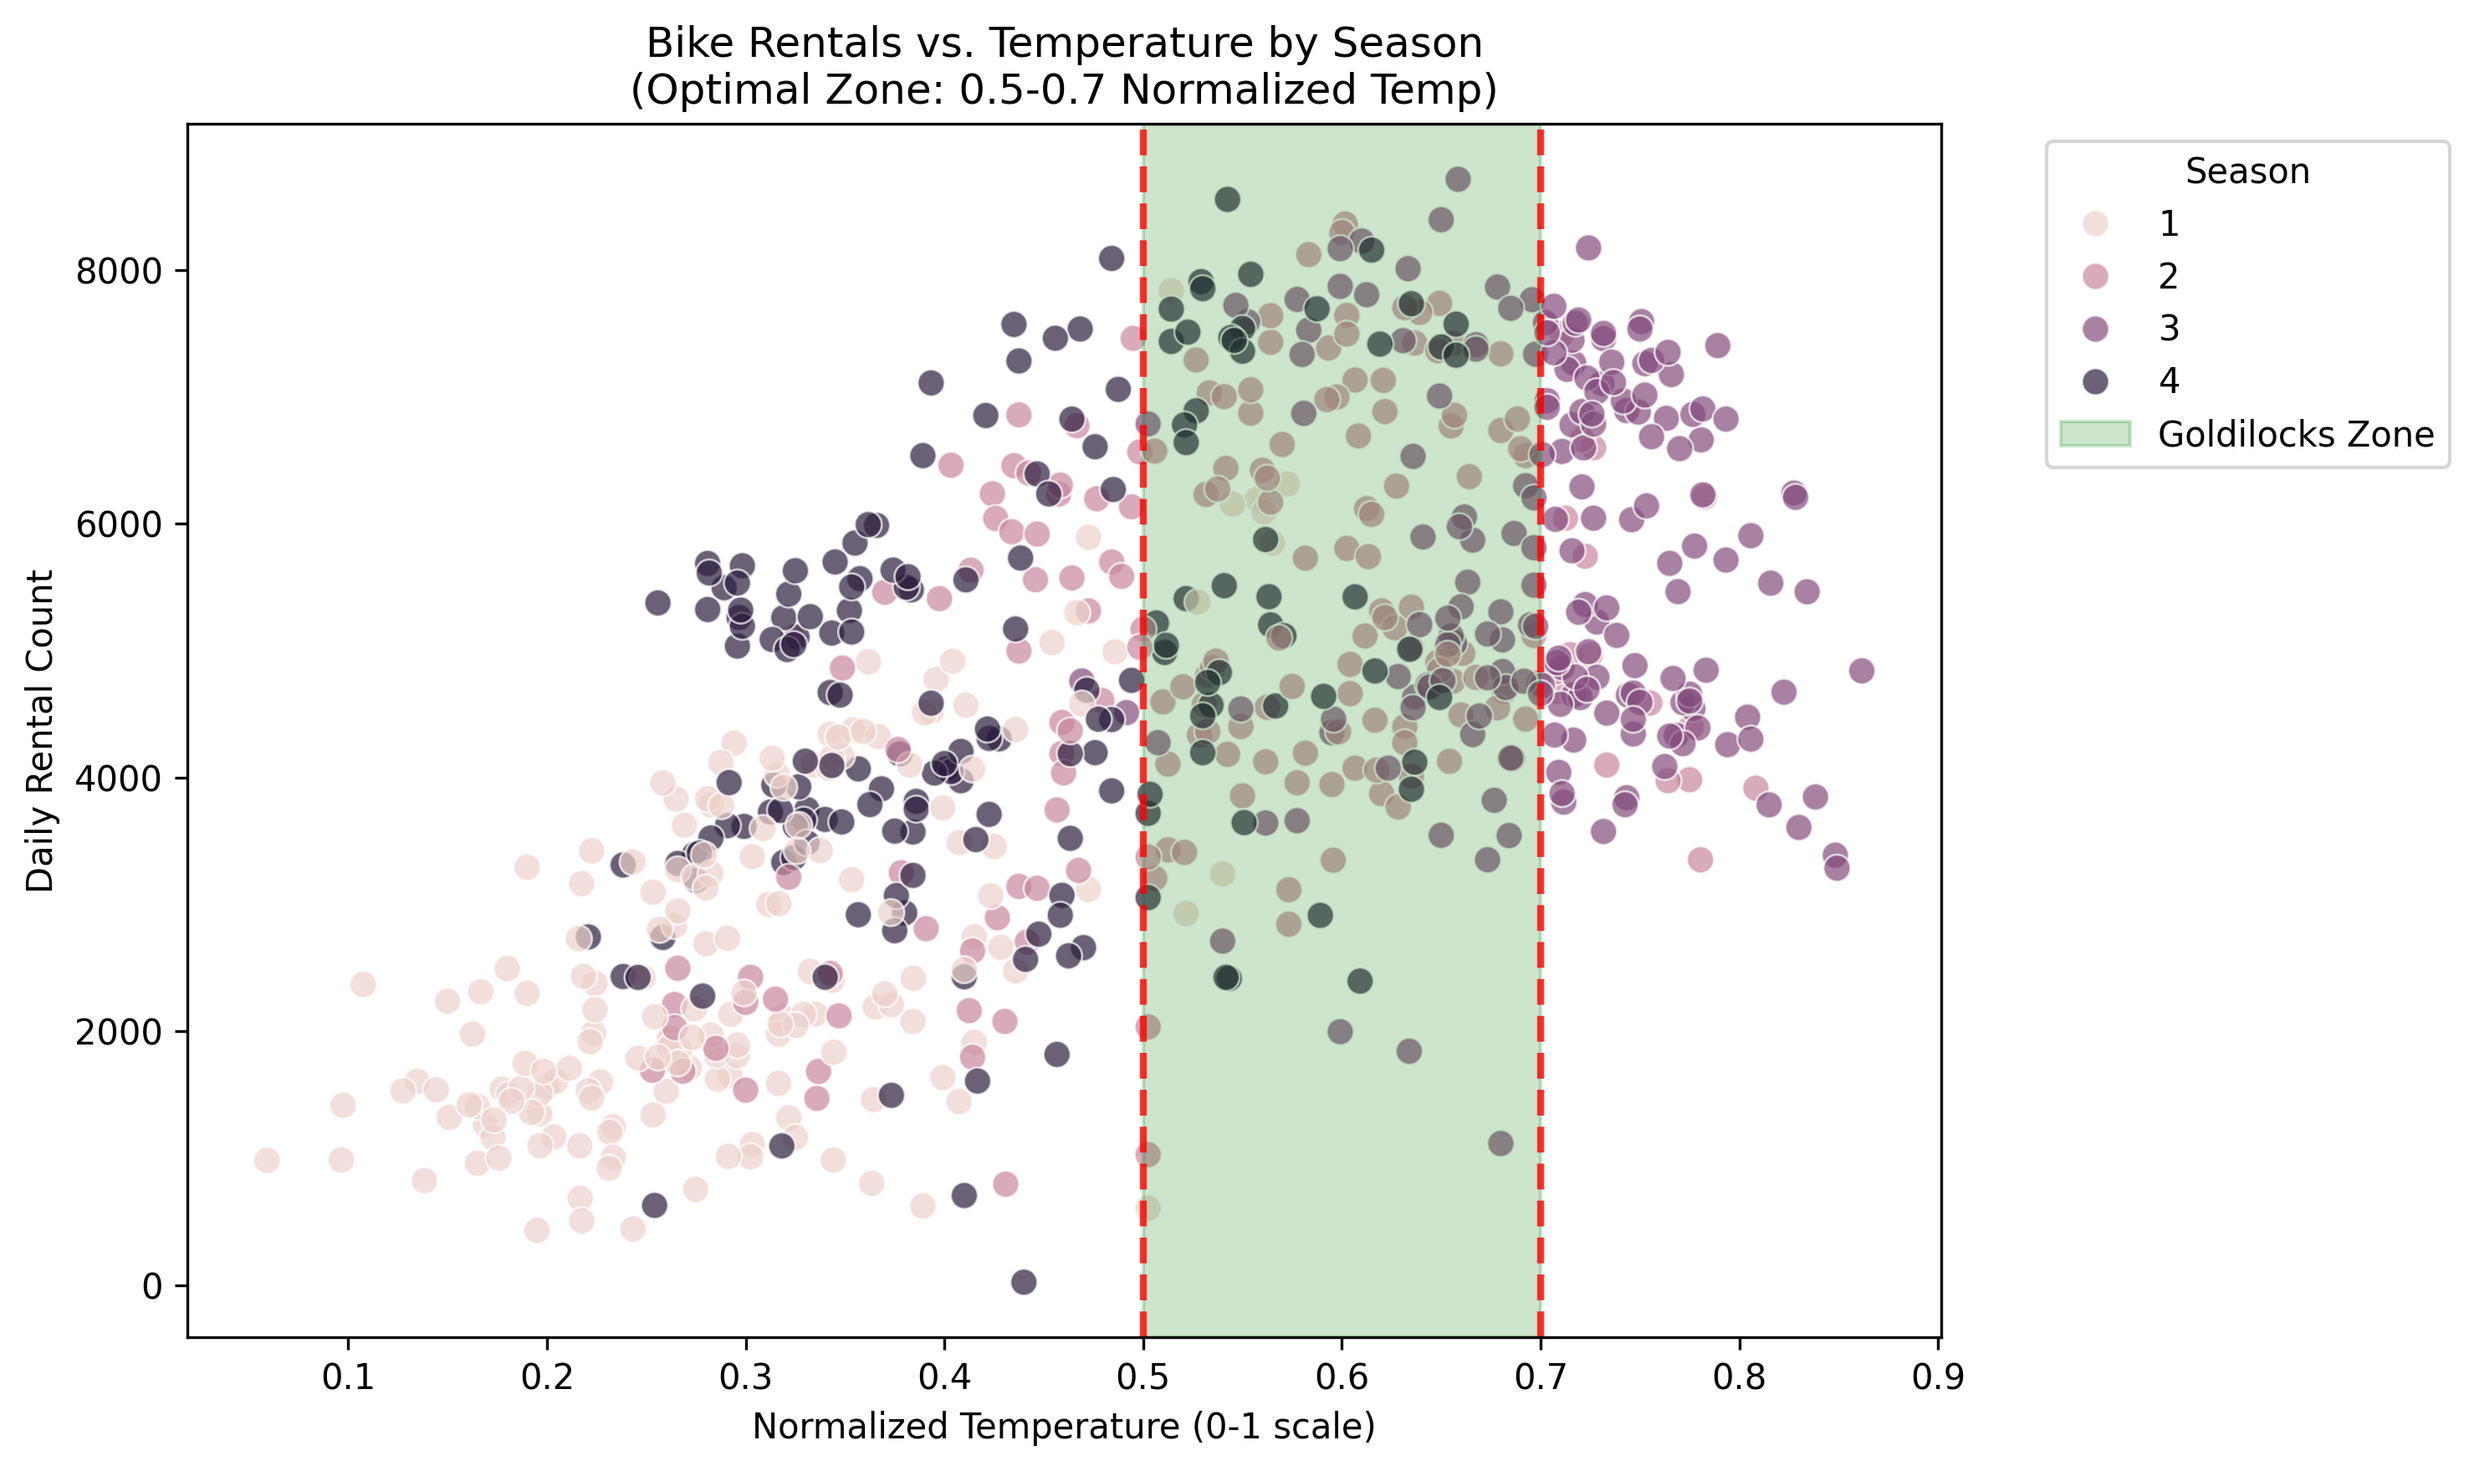
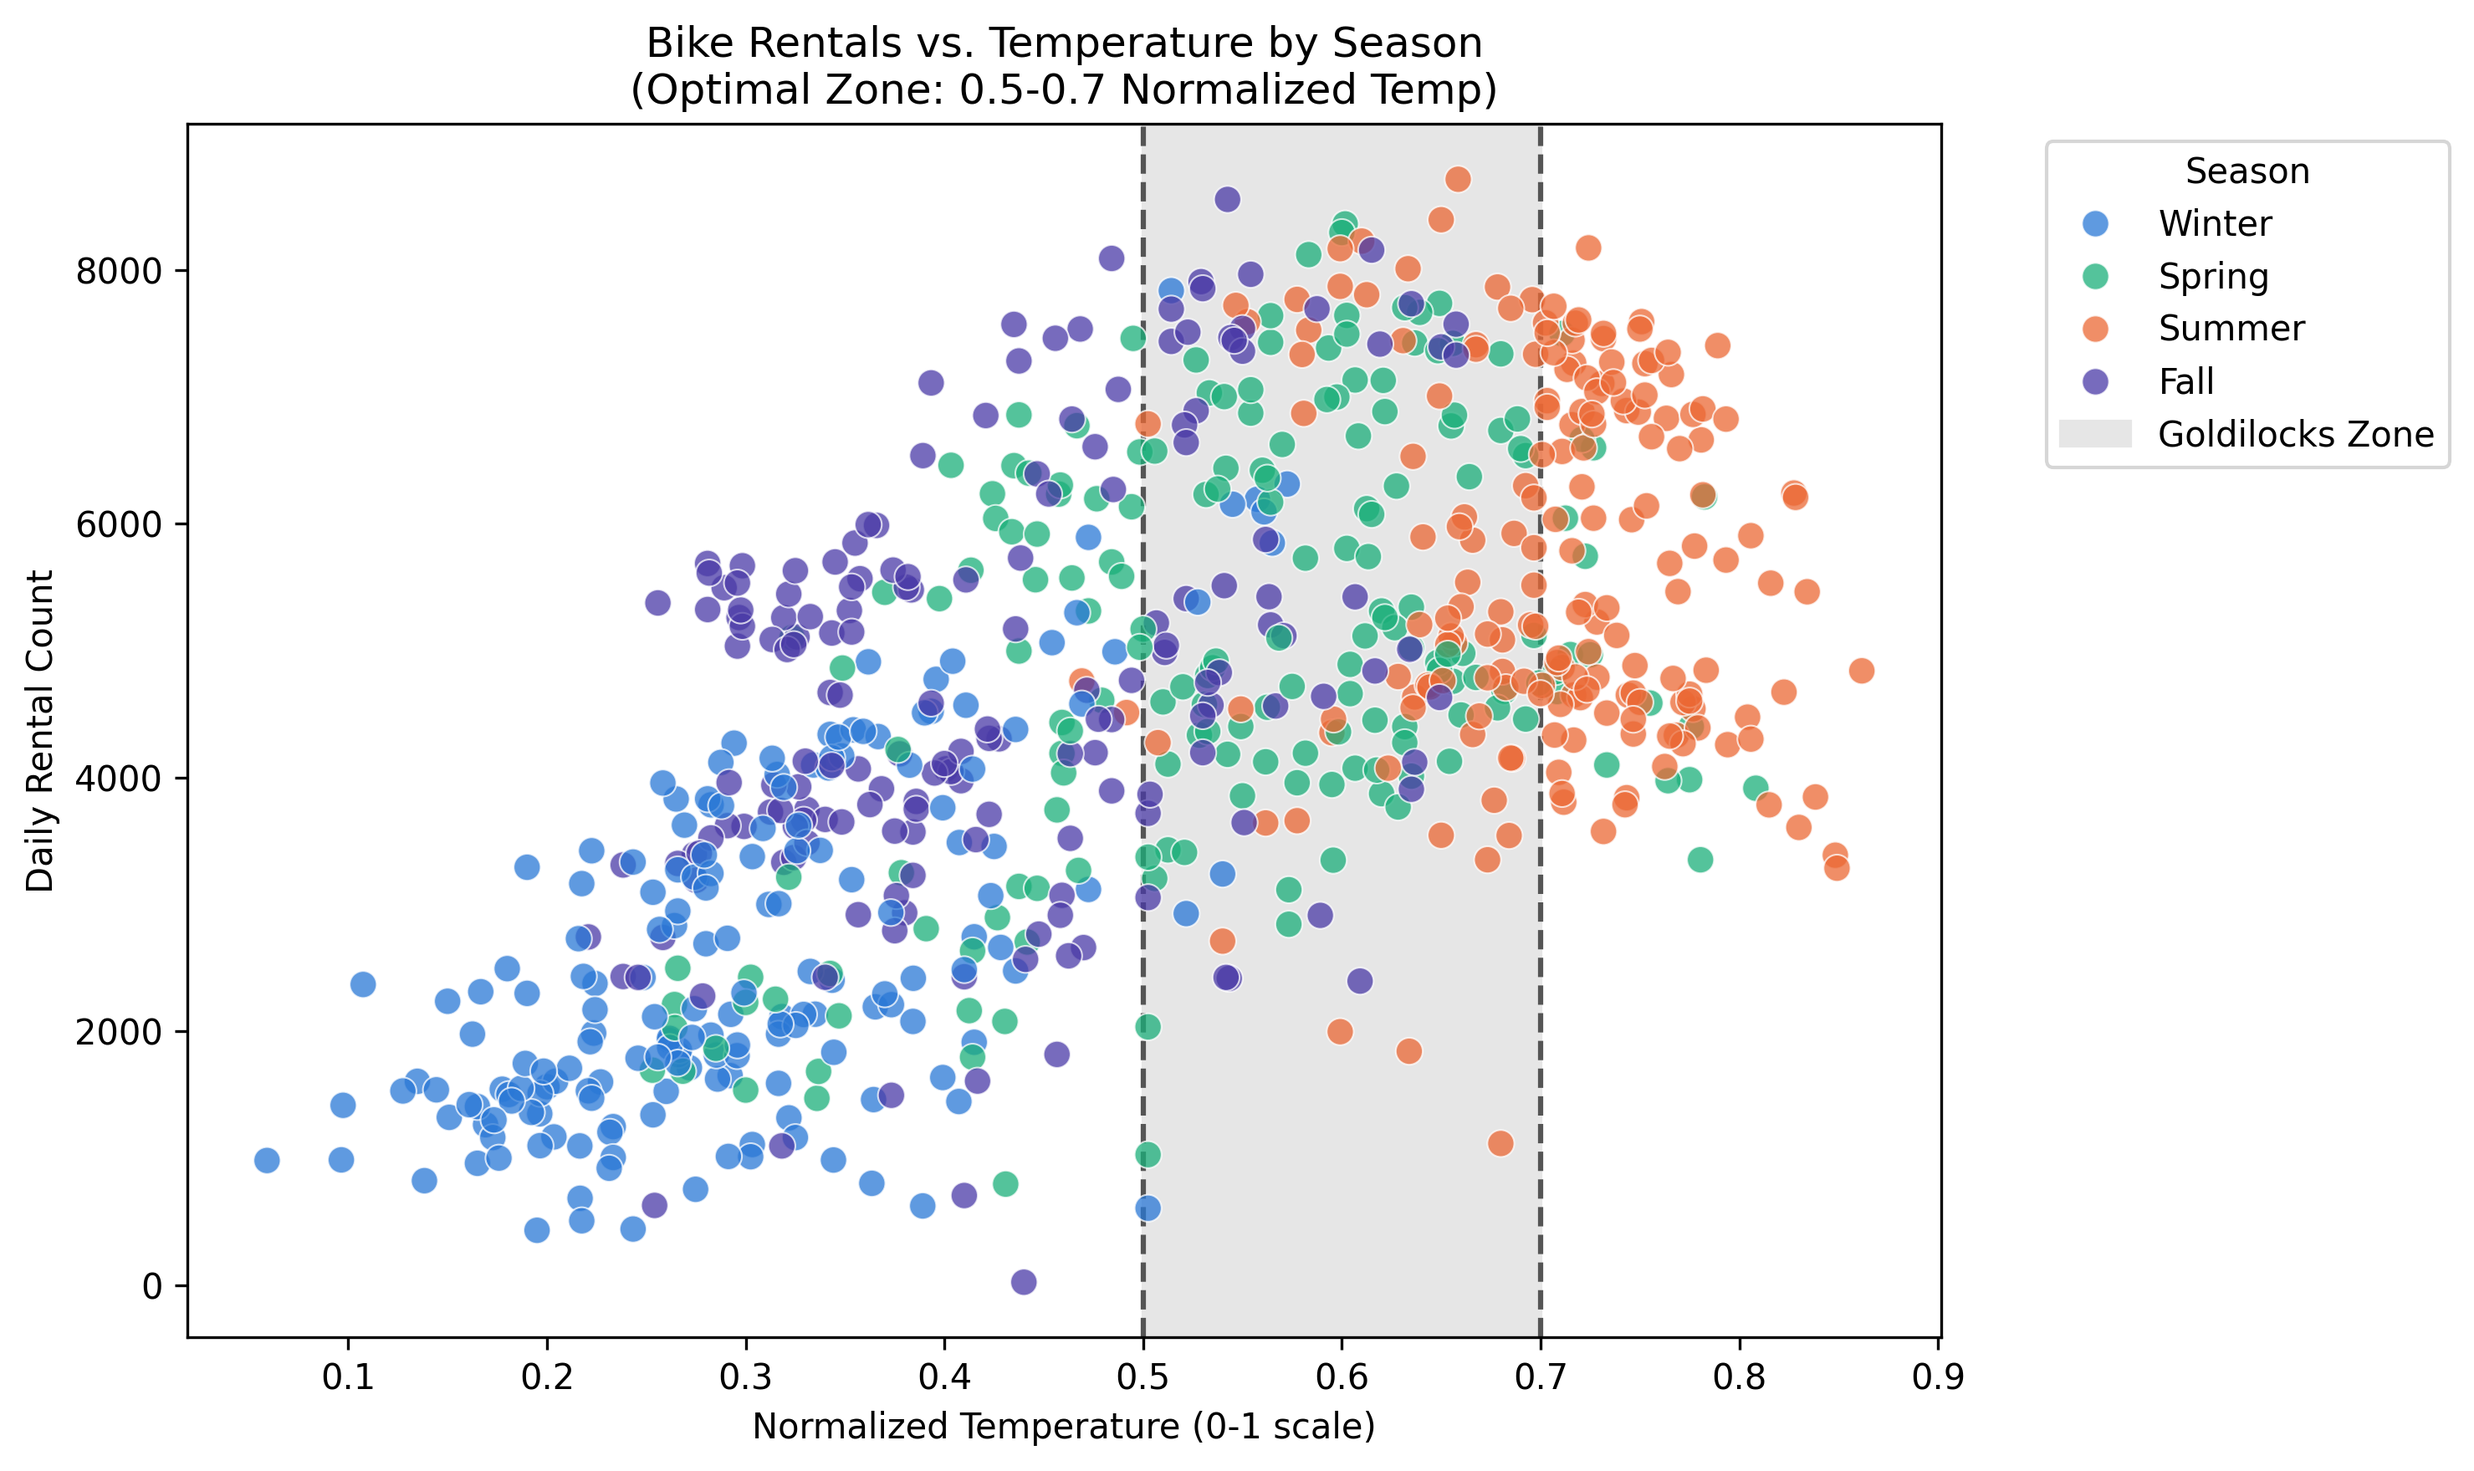
Name seasons and use distinct colors in temperature chart

diff --git a/src/bike_rental_pipeline.py b/src/bike_rental_pipeline.py
@@ -59,6 +59,11 @@ UNIT_DIVISORS = {
 
 NORMALIZED_COLUMNS = ["temp", "atemp", "hum", "windspeed"]
 
+# UCI season codes; 1 starts at the winter solstice, so January is season 1.
+SEASON_NAMES = {1: "Winter", 2: "Spring", 3: "Summer", 4: "Fall"}
+# Distinct hues checked for colorblind separation; one color per season.
+SEASON_COLORS = {"Winter": "#2a78d6", "Spring": "#1baf7a", "Summer": "#eb6834", "Fall": "#4a3aa7"}
+
 
 def _clean_numeric_series(
     series: pd.Series, unit_divisors: dict[str, float] | None = None
@@ -236,16 +241,34 @@ def create_plots(df: pd.DataFrame, output_dir: Path) -> None:
 
     if {"temp", "cnt", "season"}.issubset(df.columns):
         plt.figure(figsize=(10, 6))
-        sns.scatterplot(x="temp", y="cnt", hue="season", data=df, alpha=0.7, s=60)
+        # Neutral band and lines so only the seasons carry color.
+        plt.axvspan(0.5, 0.7, color="#e6e6e6", zorder=0, label="Goldilocks Zone")
+        plt.axvline(x=0.5, color="#555555", linestyle="--", linewidth=1.5, zorder=1)
+        plt.axvline(x=0.7, color="#555555", linestyle="--", linewidth=1.5, zorder=1)
 
-        plt.axvline(x=0.5, color="red", linestyle="--", alpha=0.8, linewidth=2)
-        plt.axvline(x=0.7, color="red", linestyle="--", alpha=0.8, linewidth=2)
-        plt.axvspan(0.5, 0.7, alpha=0.2, color="green", label="Goldilocks Zone")
+        sns.scatterplot(
+            x=df["temp"],
+            y=df["cnt"],
+            hue=df["season"].map(SEASON_NAMES),
+            hue_order=list(SEASON_COLORS),
+            palette=SEASON_COLORS,
+            alpha=0.75,
+            s=60,
+            edgecolor="white",
+            linewidth=0.5,
+            zorder=2,
+        )
 
         plt.title("Bike Rentals vs. Temperature by Season\n(Optimal Zone: 0.5-0.7 Normalized Temp)")
         plt.xlabel("Normalized Temperature (0-1 scale)")
         plt.ylabel("Daily Rental Count")
-        plt.legend(title="Season", bbox_to_anchor=(1.05, 1), loc="upper left")
+        # List the seasons first and the shaded zone last.
+        handles, labels = plt.gca().get_legend_handles_labels()
+        order = [labels.index(name) for name in SEASON_COLORS] + [labels.index("Goldilocks Zone")]
+        plt.legend(
+            [handles[i] for i in order], [labels[i] for i in order],
+            title="Season", bbox_to_anchor=(1.05, 1), loc="upper left",
+        )
         plt.tight_layout()
         plt.savefig(output_dir / "rentals_vs_temp.png", dpi=300, bbox_inches="tight")
         plt.close()
